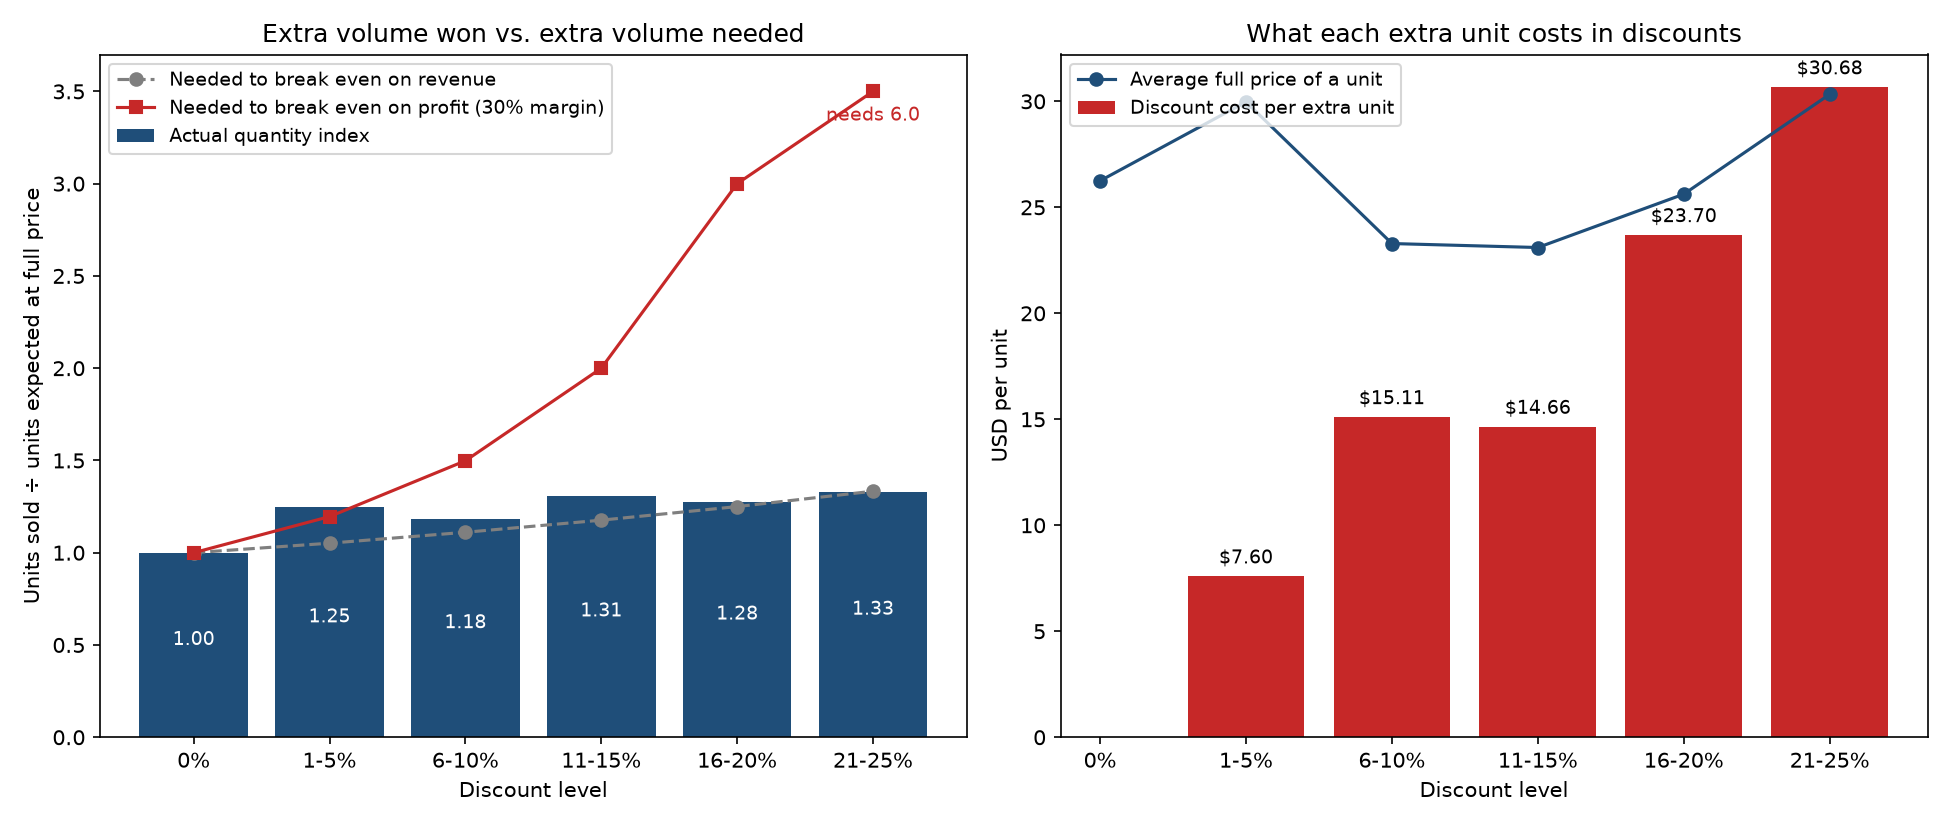
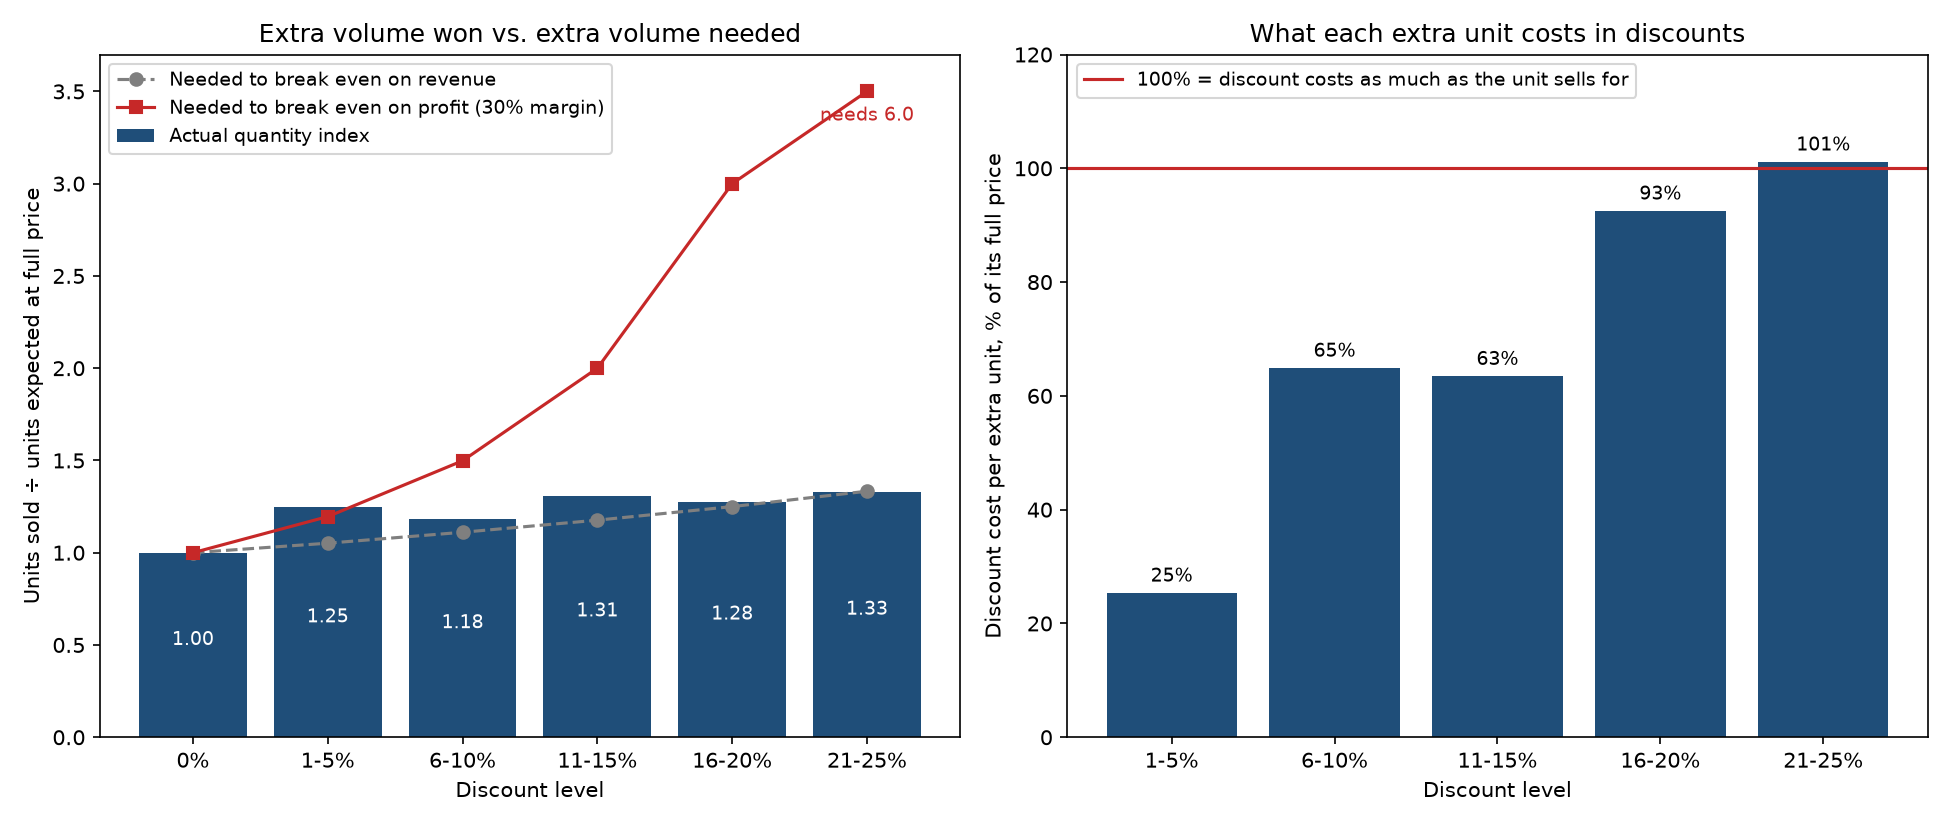
Q2: cost per extra unit as % of price; tighten text

diff --git a/index.html b/index.html
@@ -45,37 +45,28 @@ Code: <a href="https://github.com/linyutian/northwind-analysis">GitHub repositor
 <section>
 <h2>Q2. Do discounts lead to larger orders, and is deep discounting worth it?</h2>
 <h3>Why it matters</h3>
-<p>Discounts are only worth giving if they produce enough extra volume. Northwind gave away $88,666 in discounts, 7% of revenue.</p>
+<p>Northwind gave away $88,666 in discounts (7% of revenue). A discount only pays if it brings in enough extra volume.</p>
 <h3>Approach</h3>
-<p><strong>Quantity index.</strong> Some products naturally sell in bigger quantities than others, so raw order size can't be compared across discount levels. Instead, for every order line we ask: how many units does this product usually sell per line at full price? Adding that up over all lines at a discount level gives the <em>expected units</em>. The quantity index is:</p>
-<p style="text-align:center"><strong>Quantity index = units actually sold ÷ units expected at full price</strong></p>
-<p>1.00 means the discount brought no extra volume; 1.33 means 33% more units than the same products usually sell at full price.</p>
-<p><strong>Break-even test.</strong> A discount only pays if the extra volume makes up for the lower price. For an average discount <em>d</em>:</p>
+<p><strong>Quantity index = units sold ÷ units expected at full price.</strong> Expected units are what the same products usually sell per order line without a discount, which controls for product mix. 1.00 = no extra volume; 1.33 = 33% more.</p>
+<p>Each discount level is tested three ways:</p>
 <ul>
-<li><strong>Revenue break-even</strong> = 1 ÷ (1 − <em>d</em>). For a 25% discount the index must reach 1.33, just to bring in the same revenue.</li>
-<li><strong>Profit break-even</strong> = <em>m</em> ÷ (<em>m</em> − <em>d</em>), where <em>m</em> is the gross margin. A discount comes straight out of the margin, so a 25% discount on a 30% margin leaves only 5 cents of profit per dollar. That needs 6× the volume to earn the same profit. Northwind has no cost data, so a 30% margin (typical for food distribution) is assumed.</li>
-<li><strong>Cost per extra unit</strong> = total discount given ÷ extra units won, compared with what a unit sells for at full price.</li>
+<li><strong>Revenue break-even:</strong> index needed to replace the revenue given away = 1 ÷ (1 − discount). A 25% discount needs 1.33.</li>
+<li><strong>Profit break-even:</strong> index needed to keep the same gross profit = margin ÷ (margin − discount). At an assumed 30% margin (Northwind has no cost data), a 25% discount leaves 5% profit per sale and needs 6.0.</li>
+<li><strong>Cost per extra unit:</strong> total discount ÷ extra units won, as a % of the unit's full price. Above 100%, each extra unit costs more than it sells for.</li>
 </ul>
-<img src="figures/q2_discount_economics.png" alt="Left: actual quantity index versus revenue and profit break-even by discount level. Right: discount cost per extra unit versus average full price per unit.">
+<img src="figures/q2_discount_economics.png" alt="Left: actual quantity index versus revenue and profit break-even by discount level. Right: discount cost per extra unit as a percent of its full price, with a 100% line.">
 <div class="scroll"><table>
-<tr><th>Discount</th><th>Lines</th><th>Quantity index</th><th>Needed: revenue</th><th>Needed: profit (30% margin)</th><th>Discount cost</th><th>Cost per extra unit</th><th>Full price per unit</th></tr>
-<tr><td>0%</td><td>1,317</td><td>1.00</td><td>1.00</td><td>1.00</td><td>$0</td><td>–</td><td>$26.25</td></tr>
-<tr><td>1–5%</td><td>192</td><td>1.25</td><td>1.05</td><td>1.20</td><td>$7,778</td><td>$7.60</td><td>$29.97</td></tr>
-<tr><td>6–10%</td><td>174</td><td>1.18</td><td>1.11</td><td>1.50</td><td>$10,171</td><td>$15.11</td><td>$23.29</td></tr>
-<tr><td>11–15%</td><td>157</td><td>1.31</td><td>1.18</td><td>2.00</td><td>$15,442</td><td>$14.66</td><td>$23.10</td></tr>
-<tr><td>16–20%</td><td>161</td><td>1.28</td><td>1.25</td><td>3.00</td><td>$22,295</td><td>$23.70</td><td>$25.62</td></tr>
-<tr><td>21–25%</td><td>154</td><td>1.33</td><td>1.33</td><td>6.00</td><td>$32,980</td><td>$30.68</td><td>$30.33</td></tr>
+<tr><th>Discount</th><th>Quantity index</th><th>Needed: revenue</th><th>Needed: profit</th><th>Discount cost</th><th>Cost per extra unit (% of price)</th></tr>
+<tr><td>1–5%</td><td>1.25</td><td>1.05</td><td>1.20</td><td>$7,778</td><td>25%</td></tr>
+<tr><td>6–10%</td><td>1.18</td><td>1.11</td><td>1.50</td><td>$10,171</td><td>65%</td></tr>
+<tr><td>11–15%</td><td>1.31</td><td>1.18</td><td>2.00</td><td>$15,442</td><td>63%</td></tr>
+<tr><td>16–20%</td><td>1.28</td><td>1.25</td><td>3.00</td><td>$22,295</td><td>93%</td></tr>
+<tr><td>21–25%</td><td>1.33</td><td>1.33</td><td>6.00</td><td>$32,980</td><td>101%</td></tr>
 </table></div>
 <h3>Finding</h3>
-<p class="finding">Every discount level wins extra volume (index 1.18–1.33), but the volume barely changes with the size of the discount: 1.25 at 5% vs 1.33 at 25%. The cost rises steeply: from $7,778 to $32,980, more than four times as much. Deep discounting fails both tests:</p>
-<ul>
-<li><strong>Revenue:</strong> at 21–25% the index (1.328) is slightly below the 1.333 needed to break even. The extra units don't even replace the revenue the discount gives away.</li>
-<li><strong>Profit:</strong> at 21–25% the index would have to be 6.0; the actual 1.33 is far short. Every level above 5% falls short of its profit break-even. Only the 1–5% level clears it (1.25 vs 1.20).</li>
-<li><strong>Cost per extra unit:</strong> at 21–25%, each extra unit costs $30.68 in discounts, more than the $30.33 it sells for at full price. Northwind is effectively giving the extra units away and paying a little on top. At 1–5% an extra unit costs $7.60, about a quarter of its price.</li>
-</ul>
-<p>The conclusion holds for any assumed margin from 20% to 40%. At a 40% margin, 21–25% would need an index of 2.67; at 20% it can never break even. The 5% level is the borderline case: it passes at margins of about 25% or more. Discounts above 15% cost $55K, 62% of all discount spend.</p>
+<p class="finding">Volume barely responds to deeper discounts (1.25 at 5% vs 1.33 at 25%), but cost quadruples ($7.8K → $33.0K). At 21–25%, Northwind falls just short of revenue break-even (1.328 vs 1.333), far short of profit break-even (1.33 vs 6.0), and pays 101% of a unit's price to win each extra unit. Only 1–5% clears the profit test. This holds for any margin from 20% to 40%; 5% is borderline and passes only at margins of about 25% or more.</p>
 <h3>Business implication</h3>
-<p>Cap standard discounts at about 5% and require approval for anything deeper. Ask for cost data to confirm the actual margin. Caveat: this is observational data. Sales reps may give bigger discounts to customers who were already placing big orders, so even the measured lift may be overstated. That makes deep discounts look, if anything, worse. A controlled pricing test would confirm it.</p>
+<p>Cap standard discounts at 5% and require approval above that. Discounts above 15% cost $55K (62% of all discount spend) for volume that doesn't pay for itself. Get cost data to confirm the margin. Caveat: this is observational data. Reps may give deep discounts to customers who already order big, which would overstate the lift and make deep discounts look even worse.</p>
 </section>
 
 <section>

diff --git a/analysis.py b/analysis.py
@@ -133,8 +133,9 @@ def discount_effect(sales):
         ``AvgDiscount`` (fraction), ``Units``, ``ExpectedUnits``,
         ``ExtraUnits``, ``QtyIndex``, ``BreakEvenRevenue``,
         ``BreakEvenProfit`` (inf if the discount exceeds ``MARGIN``),
-        ``DiscountCost`` (USD), ``CostPerExtraUnit`` (USD) and
-        ``AvgListPrice`` (USD per unit).
+        ``DiscountCost`` (USD), ``CostPerExtraUnit`` (USD),
+        ``AvgListPrice`` (USD per unit) and ``CostPctOfPrice``
+        (cost per extra unit as a percent of its full price).
     """
     bins = [-0.001, 0, 0.05, 0.10, 0.15, 0.20, 0.25]
     labels = ["0%", "1-5%", "6-10%", "11-15%", "16-20%", "21-25%"]
@@ -165,6 +166,7 @@ def discount_effect(sales):
     )
     table["CostPerExtraUnit"] = table["DiscountCost"] / table["ExtraUnits"].where(table["ExtraUnits"] > 0)
     table["AvgListPrice"] = table["ListValue"] / table["Units"]
+    table["CostPctOfPrice"] = table["CostPerExtraUnit"] / table["AvgListPrice"] * 100
     table = table.drop(columns="ListValue")
 
     fig, (ax1, ax2) = plt.subplots(1, 2, figsize=(13, 5.5))
@@ -187,14 +189,15 @@ def discount_effect(sales):
     ax1.set_title("Extra volume won vs. extra volume needed")
     ax1.legend(loc="upper left", fontsize=9)
 
-    ax2.bar(x, table["CostPerExtraUnit"], color="#c62828", label="Discount cost per extra unit")
-    ax2.plot(x, table["AvgListPrice"], "o-", color="#1f4e79", label="Average full price of a unit")
-    for i, v in enumerate(table["CostPerExtraUnit"]):
-        if pd.notna(v):
-            ax2.text(i, v + 0.6, f"${v:.2f}", ha="center", fontsize=9)
-    ax2.set_xticks(x, names)
+    # 0% has no extra units, so it has no cost per extra unit.
+    pct = table["CostPctOfPrice"].dropna()
+    ax2.bar(pct.index.astype(str), pct, color="#1f4e79")
+    ax2.axhline(100, color="#c62828", linewidth=1.5, label="100% = discount costs as much as the unit sells for")
+    for i, v in enumerate(pct):
+        ax2.text(i, v + 2, f"{v:.0f}%", ha="center", fontsize=9)
+    ax2.set_ylim(0, 120)
     ax2.set_xlabel("Discount level")
-    ax2.set_ylabel("USD per unit")
+    ax2.set_ylabel("Discount cost per extra unit, % of its full price")
     ax2.set_title("What each extra unit costs in discounts")
     ax2.legend(loc="upper left", fontsize=9)
     fig.tight_layout()

diff --git a/README.md b/README.md
@@ -17,7 +17,7 @@ uv pip install -r requirements.txt
 | Output | Used for |
 |---|---|
 | `figures/q1_market_growth.png`, `figures/q1_market_change.png`, `outputs/q1_market_growth.csv` | Q1: country markets growing/declining (revenue, $ change, % change, rank move) |
-| `figures/q2_discount_economics.png`, `outputs/q2_discount_effect.csv` | Q2: do discounts pay off? (quantity index vs revenue/profit break-even, cost per extra unit) |
+| `figures/q2_discount_economics.png`, `outputs/q2_discount_effect.csv` | Q2: do discounts pay off? (quantity index vs revenue/profit break-even, cost per extra unit as % of full price) |
 | `figures/q3_customer_concentration.png`, `outputs/q3_customer_concentration.csv` | Q3: customer concentration risk |
 | `outputs/summary.json` | Headline numbers quoted on the webpage |
 
